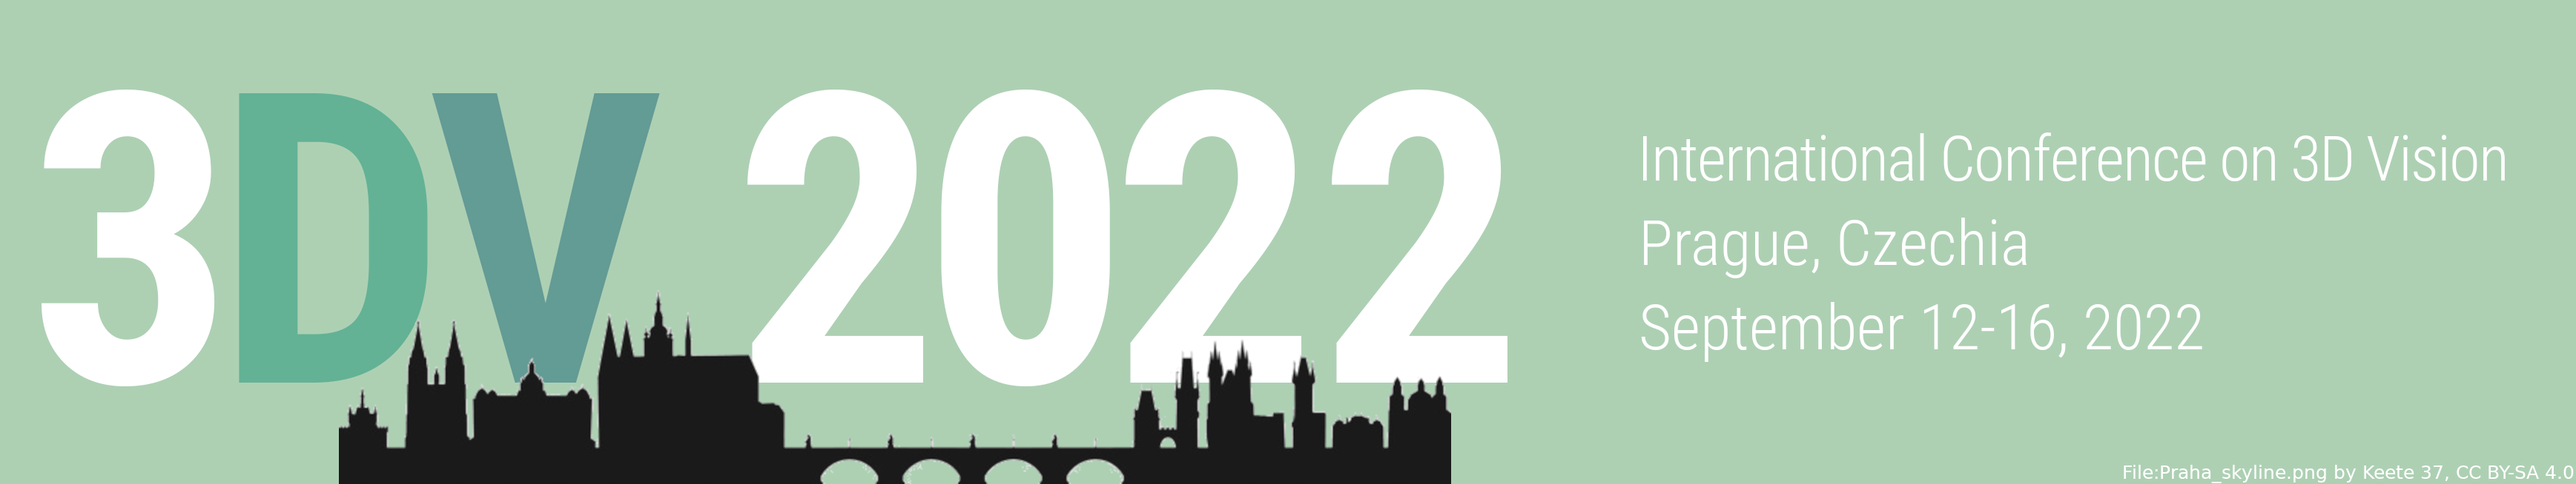
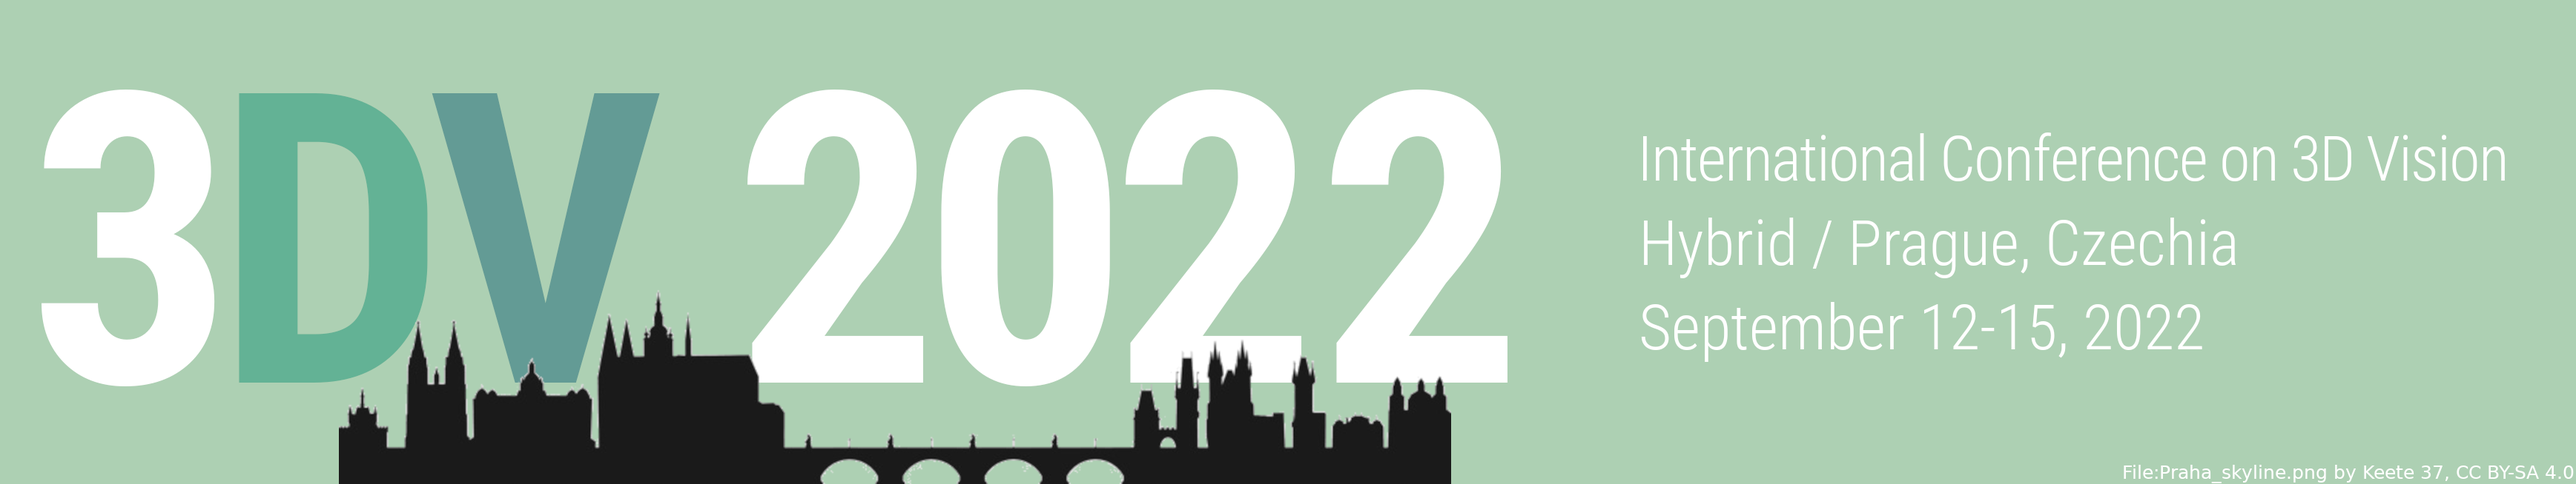
update dates

Changed region(s): [[0.6218, 0.4587, 0.8705, 0.581]]

diff --git a/_includes/2021_footer.html b/_includes/2021_footer.html
@@ -7,5 +7,7 @@
 <footer class="footer">
 	<div class="container">
     <span class="text-muted">&copy; 3DV {{year}} </span>
+
+    <span class="text-muted"> &nbsp;&nbsp;&nbsp;&nbsp; Twitter: <a href="https://twitter.com/hashtag/3dv2022">#3dv{{year}}</a> </span>
 	</div>
 </footer>

diff --git a/2022/index.md b/2022/index.md
@@ -11,7 +11,7 @@ favicon: "img/2022/3dv.ico"
 ---
 
 
-The 10th International Conference on 3D Vision will be held **in Prague, Czechia** on **September 12-16, 2022**.
+The 10th International Conference on 3D Vision will be held **in Prague, Czechia** on **September 12-15, 2022**.
 The event will be hybrid, with both in-person and virtual attendance options.
 
 In 2011, 3DIM and 3DPVT joined forces to create a new yearly conference dedicated to 3D research, originally known as 3DIMPVT for 2011 and 2012. Since 2013, under the name 3DV (3D Vision). 
@@ -23,3 +23,8 @@ This event has provided a premier platform for disseminating research results co
 * [Latest News]({{site.url}}/{{page.year}}/news)
 * [Call for Papers]({{site.url}}/{{page.year}}/call-for-papers)
 * [Important Dates]({{site.url}}/{{page.year}}/dates)
+
+
+**Organizers**:
+* [CIIRC](https://www.ciirc.cvut.cz/)
+* [FEL](https://fel.cvut.cz/en/)

diff --git a/2022/call-for-papers.md b/2022/call-for-papers.md
@@ -7,7 +7,7 @@ year: 2022
 
 <a href="{{site.url}}/files/2022/3DV2022_CFP.pdf" target="_blank">**A PDF version with the important dates can be found here.**</a> 
 
-We invite submissions to the 10th International Conference on 3D Vision (3DV 2022), which will be held in Prague, Czech Republic, on September 12-16, 2022.
+We invite submissions to the 10th International Conference on 3D Vision (3DV 2022), which will be held in Prague, Czech Republic, on September 12-15, 2022.
 Since 2013, under the name 3DV, this event has provided a platform for disseminating research results covering a broad variety of topics in the area of 3D computer vision and graphics,
 from novel optical sensors, signal processing, geometric modeling, representation and transmission, to visualization, analysis, interaction, and a variety of applications.
 

diff --git a/2022/call-for-demos.md b/2022/call-for-demos.md
@@ -5,7 +5,7 @@ title: Call for Research Demos
 ---
 
 The 10th International Conference on 3D Vision will be held in hybrid format on
-September 12-16, 2022. This event will provide a premier platform for disseminating
+September 12-15, 2022. This event will provide a premier platform for disseminating
 research results covering a broad variety of topics in the area of 3D research in
 computer vision and graphics, from novel optical sensors, signal processing, geometric
 modeling, representation and transmission, to visualization and interaction, and a

diff --git a/2022/venue.md b/2022/venue.md
@@ -16,8 +16,11 @@ referrerpolicy="no-referrer-when-downgrade"></iframe>
 The conference will take place on the main campus of Czech Technical University
 in Prague, just 20 minutes walking distance from Prague castle.
 
+<br>
+
 **Faculty of Electrical Engineering, Czech Technical University in Prague**\\
 Technická 2\\
 160 00 Praha 6 - Dejvice\\
-Prague, Czechia\\
-Webiste: [https://fel.cvut.cz/en/](https://fel.cvut.cz/en/)
+Prague, Czechia
+
+<img src="{{site.url}}/img/2022/FEL.jpg" style="width:85%;"/>
